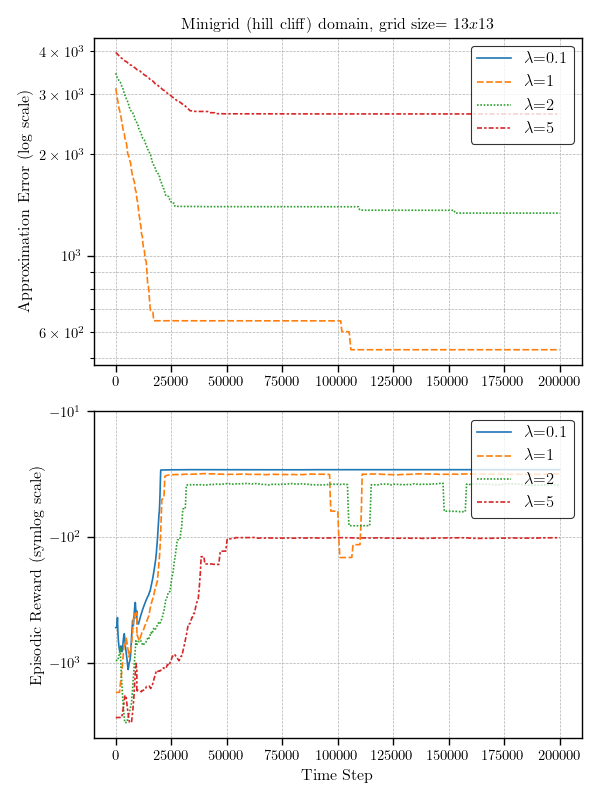
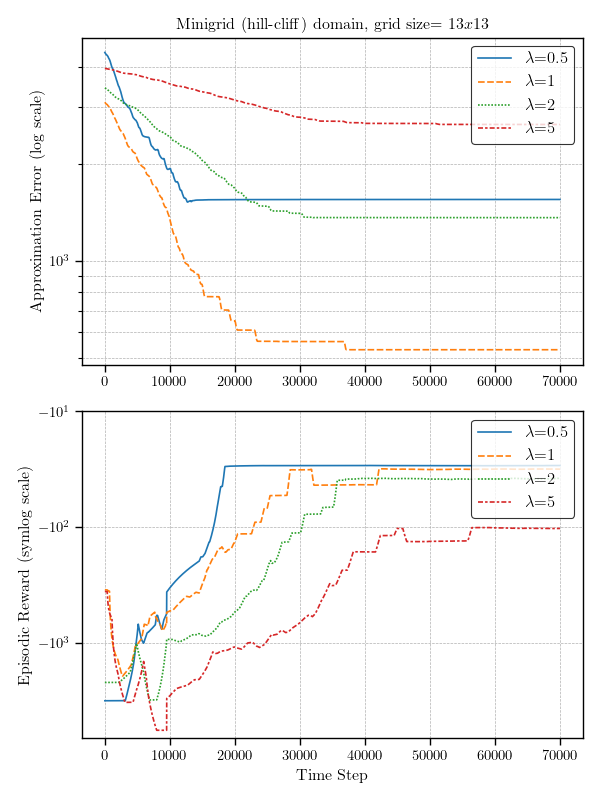
test

diff --git a/tuning_test.py b/tuning_test.py
@@ -11,7 +11,7 @@ import random
 
 if __name__ == "__main__":
 
-    simple15_map = [
+    simple6_map = [
         "########",
         "#A     #",
         "#      #",
@@ -22,7 +22,7 @@ if __name__ == "__main__":
         "########"
     ]
 
-    hill15_map = [
+    hill13_map = [
         "#################",
         "#A              #",
         "# WLLLLLLLLLLLL #",
@@ -60,7 +60,7 @@ if __name__ == "__main__":
         "###############"
     ]
 
-    maze20_map = [
+    maze18_map = [
         "####################",
         "#A    W     W     G#",
         "#W W  W W W W W W  #",
@@ -83,7 +83,7 @@ if __name__ == "__main__":
         "####################"
     ]
 
-    rooms_map = [
+    rooms18_map = [
         "######################",
         "#             W     G#",
         "#      W      W      #",
@@ -136,230 +136,80 @@ if __name__ == "__main__":
 
         return {"walls": list(walls), "lavas": list(lavas)}
 
-    grid_size = 10
+    grid_size = 15
     wall_percentage = 10
     lava_percentage = 10
     objects = generate_random_walls_and_lavas(grid_size, wall_percentage, lava_percentage)
-    objects = {"walls":[], "lavas":[]}
+    #objects = {"walls":[], "lavas":[]}
 
-    grid_map = hill15_map
+    grid_map = hill13_map
     grid_size = len(grid_map)-2 if grid_map is not None else grid_size
 
 
     # MDP
-    simplegrid_mdp = SimpleGrid_MDP(grid_size)
-    minigrid_mdp2 = Minigrid_MDP(grid_size, objects=objects, map = grid_map)
+    minigrid_mdp = Minigrid_MDP(grid_size, objects=objects, map = grid_map)
     #minigrid_mdp.render()
     
     #minigrid_lmdp, error = minigrid_mdp.embedding_to_LMDP()
     minigrid_lmdp = Minigrid_LMDP(grid_size, objects=objects, map = grid_map)
-    minigrid_mdp, error = minigrid_lmdp.embedding_to_MDP()
-    print(error)
-    # minigrid_lmdp, error = minigrid_mdp.embedding_to_LMDP()
-    # print(error)
+
+    #minigrid_mdp, error = minigrid_lmdp.embedding_to_MDP()
+    #print(error)
+    #minigrid_lmdp, error = minigrid_mdp.embedding_to_LMDP()
+    #print(error)
     # minigrid_mdp, error = minigrid_lmdp.embedding_to_MDP()
     # print(error)
     minigrid_mdp_plots = Minigrid_MDP_Plotter(minigrid_mdp)
     
     
-    Z, n_steps = minigrid_lmdp.power_iteration(lmbda = 1, epsilon=1e-10)
-    V2 = minigrid_lmdp.Z_to_V(Z)
-
-    minigrid_mdp_plots.plot_minigrid(minigrid_mdp, grid_size, V2)
-
-
-
+    # Z, n_steps = minigrid_lmdp.power_iteration(lmbda = 1, epsilon=1e-10)
+    # V2 = minigrid_lmdp.Z_to_V(Z)
 
     gamma = 1
     epsilon = 1e-10
-    n_iters = int(2e5)
+    n_iters = int(7e4)
     lmbda = 1
 
     # Value Iteration MDP
-    Q, opt_policy, n_steps = minigrid_mdp.value_iteration(epsilon, gamma)
-    V = np.max(Q, axis=1) 
+    # Q, opt_policy, n_steps = minigrid_mdp.value_iteration(epsilon, gamma)
+    # V = np.max(Q, axis=1) 
+    # 
 
-    qlearning = QLearning(minigrid_mdp, gamma=gamma, c=200, epsilon=1, epsilon_decay=0.999, epsilon_min = 0, reset_randomness=0.1)
-    Q_est, V_error, est_policy, throughputs, rewards = Qlearning_training(qlearning, n_steps=n_iters, V=V)
+    Z, _ = minigrid_lmdp.power_iteration(lmbda = lmbda, epsilon=epsilon)
+    V = minigrid_lmdp.Z_to_V(Z)
+    minigrid_mdp_plots.plot_minigrid(minigrid_mdp, grid_size, V)
 
-    V_est = np.max(Q_est, axis=1)
+    # qlearning = QLearning(minigrid_mdp, gamma=gamma, c=200, epsilon=1, epsilon_decay=0.999, epsilon_min = 0, reset_randomness=0)
+    # Q_est, V_error, est_policy, throughputs, rewards = Qlearning_training(qlearning, n_steps=n_iters, V=V)
+    # V_est = np.max(Q_est, axis=1)
 
-    qlearning = QLearning(minigrid_mdp2, gamma=gamma, c=200, epsilon=1, epsilon_decay=0.999, epsilon_min = 0, reset_randomness=0.1)
-    Q_est2, V_error2, est_policy2, throughputs2, rewards2 = Qlearning_training(qlearning, n_steps=n_iters, V=V)
-
-    #minigrid_mdp_plots.plot_rewards_and_errors([V_error, V_error2], [rewards, rewards2], [r"$\epsilon$-Q-L", r"$\epsilon_{d}$-Q-L"], title="Minigrid  domain, grid size=15x15")
+    # minigrid_mdp_plots.plot_rewards_and_errors([V_error, V_error-5], [rewards, rewards-5], ["A", "B"], title=r"Minigrid domain, grid size$=15x15$")
     
 
-    zlearning = ZLearning(minigrid_lmdp, lmbda=lmbda, c=10000, reset_randomness=0.1)
-    Z, V_error2, z_throughputs, z_rewards = Zlearning_training(zlearning, n_steps=n_iters, V=V2)
-    V_est2 = minigrid_lmdp.Z_to_V(Z)
 
-    print(np.mean(np.square(V_est2 - V2)))
+    lmbda_values = [0.1, 0.5, 1, 1.5, 2, 5]
 
-    PU = minigrid_lmdp.compute_Pu(Z)
+    q_rewards = []
+    names = []
+    q_errors = []
+    values = []
+    values.append(V)
+    names.append("Optimal Value Function")
 
-    with open("V_opt.txt", "w") as f:
-        for i in range(minigrid_lmdp.n_nonterminal_states):
-            f.write("V_Z[{}]: {}\n".format(minigrid_lmdp.states[i], V2[i]))
+    for lmbda in lmbda_values:
+        # qlearning = QLearning(minigrid_mdp, gamma=gamma, c=5000000, epsilon=1, epsilon_decay=0.999, epsilon_min = 0, reset_randomness=0)
+        # Q_est, V_error, est_policy, throughputs, rewards = Qlearning_training(qlearning, n_steps=n_iters, V=V)
+        # V_est = np.max(Q_est, axis=1)
 
-    with open("Pu.txt", "w") as f:
-        for i in range(minigrid_lmdp.n_nonterminal_states):
-            for j in PU[i].indices:
-                f.write("Pu[{}, {}] -> {}\n".format(minigrid_lmdp.states[i], minigrid_lmdp.states[j], PU[i,j]))
-
-    with open("V_z_true.txt", "w") as f:
-        for i in range(minigrid_lmdp.n_nonterminal_states):
-            f.write("V_Z[{}]: {}\n".format(minigrid_lmdp.states[i], V_est2[i]))
-
-    with open("V_error.txt", "w") as f:
-        for i in range(minigrid_lmdp.n_nonterminal_states):
-            f.write("V_error[{}]: {}\n".format(minigrid_lmdp.states[i], np.mean(np.square(V_est2[i] - V2[i]))))
-
-    # # with open("V_z.txt", "w") as f:
-    # #     for i in range(1, grid_size+1):
-    # #         for j in range(1, grid_size+1):
-    # #             if (i,j,0) in minigrid_mdp.states:
-    # #                 v = max(V_est2[minigrid_lmdp.state_to_index[(i,j,0)]], V_est2[minigrid_lmdp.state_to_index[(i,j,1)]], V_est2[minigrid_lmdp.state_to_index[(i,j,2)]], V_est2[minigrid_lmdp.state_to_index[(i,j,3)]] )
-    # #                 f.write("V_z[{}]: {}\n".format((i,j), v))
-
-
-    minigrid_mdp_plots.plot_rewards_and_errors([V_error, V_error2], [rewards2, z_rewards], ["Q-L", "Z-L"], title="Minigrid (hill cliff) domain, grid size=13x13")
-
-    minigrid_mdp_plots.plot_grids_with_policies(env=minigrid_mdp, grid_size= grid_size, value_functions = [V, V_est, V_est2], names = ["Optimal Value Function", "Q-learning", "Z-learning"])
-
-
-
-    # with open("V.txt", "w") as f: 
-    #     for i in range(1, grid_size+1):
-    #         for j in range(1, grid_size+1):
-    #             if (i,j,0) in minigrid_mdp.states:
-    #                 v = (V[minigrid_mdp.state_to_index[(i,j,0)]]+ V[minigrid_mdp.state_to_index[(i,j,1)]]+ V[minigrid_mdp.state_to_index[(i,j,2)]]+ V[minigrid_mdp.state_to_index[(i,j,3)]] )/4
-    #                 f.write("V[{}]: {}\n".format((i,j), v))
-
-    # with open("V_est.txt", "w") as f: 
-    #     for i in range(1, grid_size+1):
-    #         for j in range(1, grid_size+1):
-    #             if (i,j,0) in minigrid_mdp.states:
-    #                 v = (V_est[minigrid_mdp.state_to_index[(i,j,0)]]+ V_est[minigrid_mdp.state_to_index[(i,j,1)]]+ V_est[minigrid_mdp.state_to_index[(i,j,2)]]+ V_est[minigrid_mdp.state_to_index[(i,j,3)]] )/4
-    #                 f.write("V[{}]: {}\n".format((i,j), v))
-
-    # # # minigrid_mdp_plots.plot_rewards_and_errors([V_error, V_error+50],[rewards, rewards-500], ["0.999", "0.995"], title=r"Minigrid domain, grid size=10x10, $\epsilon=1$")
-
-    # minigrid_mdp_plots.plot_grids_with_policies(env=minigrid_mdp, grid_size= grid_size, value_functions = [V, V_est])
-
-
-    
-    # LMDP
-    # minigrid = Minigrid_LMDP(grid_size=grid_size)
-    # minigrid_plots = Minigrid_LMDP_Plotter(minigrid)
-    # minigrid = SimpleGrid_LMDP(grid_size)
-
-    # walls = [(14,1), (1,8), (5, 5), (12, 5), (8, 7), (2,5), (3,5), (4,5), (6,5), (7,5), (8,5), (9,5), (10,5), (11,5), (13,5), (15,9)]
-    # lavas = [(7,1), (1,4), (14,14)]
-
-    # Z, n_steps = minigrid.power_iteration(lmbda = lmbda, epsilon=epsilon)
-    # V = minigrid.Z_to_V(Z)
-    # minigrid_plots.plot_grid(minigrid, grid_size, V, walls=walls, lavas=lavas)
-    #V = minigrid.Z_to_V(Z)
-
-    # Embedded MDP
-    #mdp_minigrid, _ = minigrid.embedding_to_MDP()
-    #minigrid_mdp_embedded_plots = Minigrid_MDP_Plotter(mdp_minigrid)
-    # Q2, opt_policy2, n_steps = mdp_minigrid.value_iteration(epsilon, gamma)
-    # V2 = np.max(Q2, axis=1)
-
-    # qlearning = QLearning(minigrid_mdp, gamma=gamma, epsilon=1, epsilon_decay=0.9995, epsilon_min = 0, c = 100)
-    # Q_est, est_policy, _, throughputs = Qlearning_training(qlearning, n_steps=n_iters)
-    # print(np.sum(opt_policy- est_policy))
-    # print(np.mean(np.square(V - np.max(Q_est, axis=1))))
-    # print(opt_policy[opt_policy != est_policy], est_policy[opt_policy != est_policy])
-    # print(throughputs[-1])
-
-
-    lambda_values = [0.1, 1, 2, 5]
-
-    z_rewards = []
-    z_names = []
-    z_errors = []
-    z_values = []
-    z_values.append(V)
-    z_names.append("Optimal Value Function")
-
-    for c in lambda_values:
-        zlearning = ZLearning(minigrid_lmdp, lmbda=c, c=10000)
+        zlearning = ZLearning(minigrid_lmdp, lmbda=lmbda, c=10000)
         Z, V_error, throughputs, rewards = Zlearning_training(zlearning, n_steps=n_iters, V=V)
         V_est = minigrid_lmdp.Z_to_V(Z)
-        print(V_error[-1], rewards[-1])
 
-        z_rewards.append(rewards)
-        z_names.append(r'$\lambda$=' + str(c))
-        z_errors.append(V_error)
-        z_values.append(V_est)
+        q_rewards.append(rewards)
+        names.append(r'$\lambda$=' + str(lmbda))
+        q_errors.append(V_error)
+        values.append(V_est)
 
-    minigrid_mdp_plots.plot_rewards_and_errors(z_errors, z_rewards, z_names[1:], title=r"Minigrid (hill cliff) domain, grid size$=13x13$")
+    minigrid_mdp_plots.plot_rewards_and_errors(q_errors, q_rewards, names[1:], title=r"Minigrid (hill-cliff) domain, grid size$=13x13$")
     
-    minigrid_mdp_plots.plot_grids_with_policies(env=minigrid_mdp, grid_size= grid_size, value_functions = z_values, names = z_names)
-
-
-
-
-    # minigrid_plots.plot_throughput(throughputs2, grid_size, names = z_names, smooth_window=10000, save_path='plots\Z_c_throughputs')
-    # minigrid_plots.plot_throughput(throughputs, grid_size, names = z_names, smooth_window=10000, save_path='plots\Z_c')
-    # minigrid_plots.plot_value_per_hyperparameter(v_errors, c_values, title = 'Value Function Approximation Error by Learning Rate in Z-learning', xlabel = 'C', ylabel = 'Approximation Error', save_path = 'plots\Z_c_error')
-    # minigrid_plots.plot_value_per_hyperparameter(v_mses, c_values, title = 'Value Function MSE Error by Learning Rate in Z-learning', xlabel = 'C', ylabel = 'Mean Squared Errpr', save_path = 'plots\Z_c_mse')
-    # #minigrid_mdp_embedded_plots.plot_value_per_hyperparameter(q_policy_differences, c_values, title = 'Policy Differences by Learning Rate', xlabel = 'C', ylabel = 'Policy Differences', save_path = 'plots\Q_embedded_c_policy_difference')
-
-    # epsilon_decays = [0.9999, 0.9995, 0.999, 0.995, 0.99]
-    # epsilon_decays = [0.999, 0.99]
-    # q_rewards = []
-    # q_names = []
-    # q_errors = []
-    # q_values = []
-    # q_values.append(V)
-    # q_names.append("Optimal Value Function")
-    
-    # for epsilon_decay in epsilon_decays:
-    #     qlearning = QLearning(minigrid_mdp, gamma=gamma, c=200, epsilon=1, epsilon_decay=epsilon_decay, epsilon_min = 0)
-    #     Q_est, V_error, est_policy, throughputs, rewards = Qlearning_training(qlearning, n_steps=n_iters, V=V)
-    #     V_est = np.max(Q_est, axis=1)
-    #     q_rewards.append(rewards)
-    #     q_names.append(r'$\epsilon_{decay}$=' + str(epsilon_decay))
-    #     q_errors.append(V_error)
-    #     q_values.append(V_est)
-    
-    # minigrid_mdp_plots.plot_rewards_and_errors(q_errors, q_rewards, q_names[1:], title=r"Minigrid (hill cliff) domain, grid size$=15x15$, $\epsilon=1$")
-
-    # minigrid_mdp_plots.plot_grids_with_policies(env=minigrid_mdp, grid_size= grid_size, value_functions = q_values, names = q_names)
-
-
-
-    # minigrid_mdp_embedded_plots.plot_throughput(q_throughputs, minigrid.grid_size, names = q_names, save_path='plots\Q_epsilon_decays2')
-    # minigrid_mdp_embedded_plots.plot_value_per_hyperparameter(q_errors, epsilon_decays, title = 'Value Function Approximation Error by Exploration Decay', xlabel = 'Epsilon Decay', ylabel = 'Approximation Error', save_path = 'plots\Q_epsilon_decay_error2')
-    # minigrid_mdp_embedded_plots.plot_value_per_hyperparameter(q_policy_differences, epsilon_decays, title = 'Policy Differences by Exploration Decay', xlabel = 'Epsilon Decay', ylabel = 'Policy Differences', save_path = 'plots\Q_epsilon_decay_policy_difference2')
-
-
-    #learning_rate_decays = [1, 0.9999, 0.995, 0.99]
-    #learning_rates = [1, 0.75, 0.5, 0.25, 0.1, 0.05, 0.01]
-    #gammas = [1, 0.99, 0.95, 0.9, 0]
-    # lambdas = [1, 0.1, 0.01, 0.001]
-    # q_throughputs = []
-    # q_names = []
-    # q_errors = []
-    # q_policies = []
-    
-    # for lmbda in lambdas:
-    #     #qlearning = QLearning(mdp_minigrid, gamma=gamma, learning_rate=0.25, learning_rate_decay=0.9999, learning_rate_min=0.0005, epsilon=1, epsilon_decay=0.9995, epsilon_min = 0)
-    #     zlearning = ZLearning(minigrid, lmbda=lmbda, learning_rate=0.25, learning_rate_decay=0.9999, learning_rate_min=0.0005)
-    #     #Q_est, est_policy, _, throughputs = Qlearning_training(qlearning, n_steps=n_iters)
-    #     _, _, z_throughputs = Zlearning_training(zlearning, n_steps=n_iters)
-    #     Pu = zlearning.Pu
-    #     q_throughputs.append(z_throughputs)
-    #     q_names.append('Lambda: ' + str(lmbda))
-    #     #q_errors.append(np.sum(np.abs(Q2-Q_est))/np.sum(np.abs(Q2)))
-    #     #q_policies.append(1-np.sum(opt_policy2 != est_policy)/mdp_minigrid.n_states)
-    #     q_policies.append(1-np.sum(np.abs(PU-zlearning.Pu))/np.sum(PU))
-
-
-    # minigrid_mdp_embedded_plots.plot_throughput(q_throughputs, minigrid.grid_size, names = q_names, save_path='plots\Z_lmbda')
-    # #minigrid_mdp_embedded_plots.plot_value_per_hyperparameter(q_errors, gammas, title = 'Value Function Approximation Error by Discount Rate', xlabel = 'Discount Rate', ylabel = 'Approximation Error', save_path = 'plots\Q_discount_rate_error')
-    # minigrid_mdp_embedded_plots.plot_value_per_hyperparameter(q_policies, lambdas, title = 'PU Approximation by Temperature Parameter', xlabel = 'Lambda', ylabel = 'PU Approximation', save_path = 'plots\Z_lambda_pu')
+    minigrid_mdp_plots.plot_grids_with_policies(env=minigrid_mdp, grid_size= grid_size, value_functions = values, names = names)
